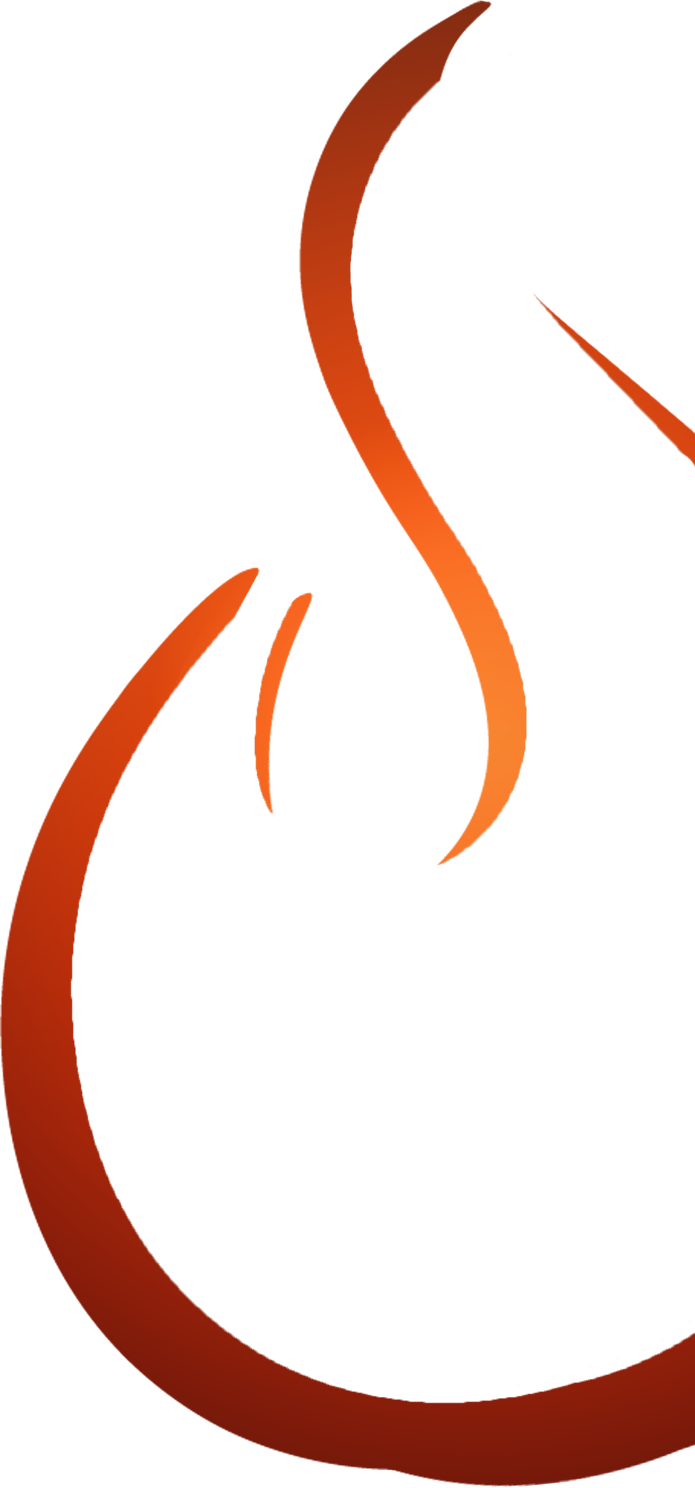
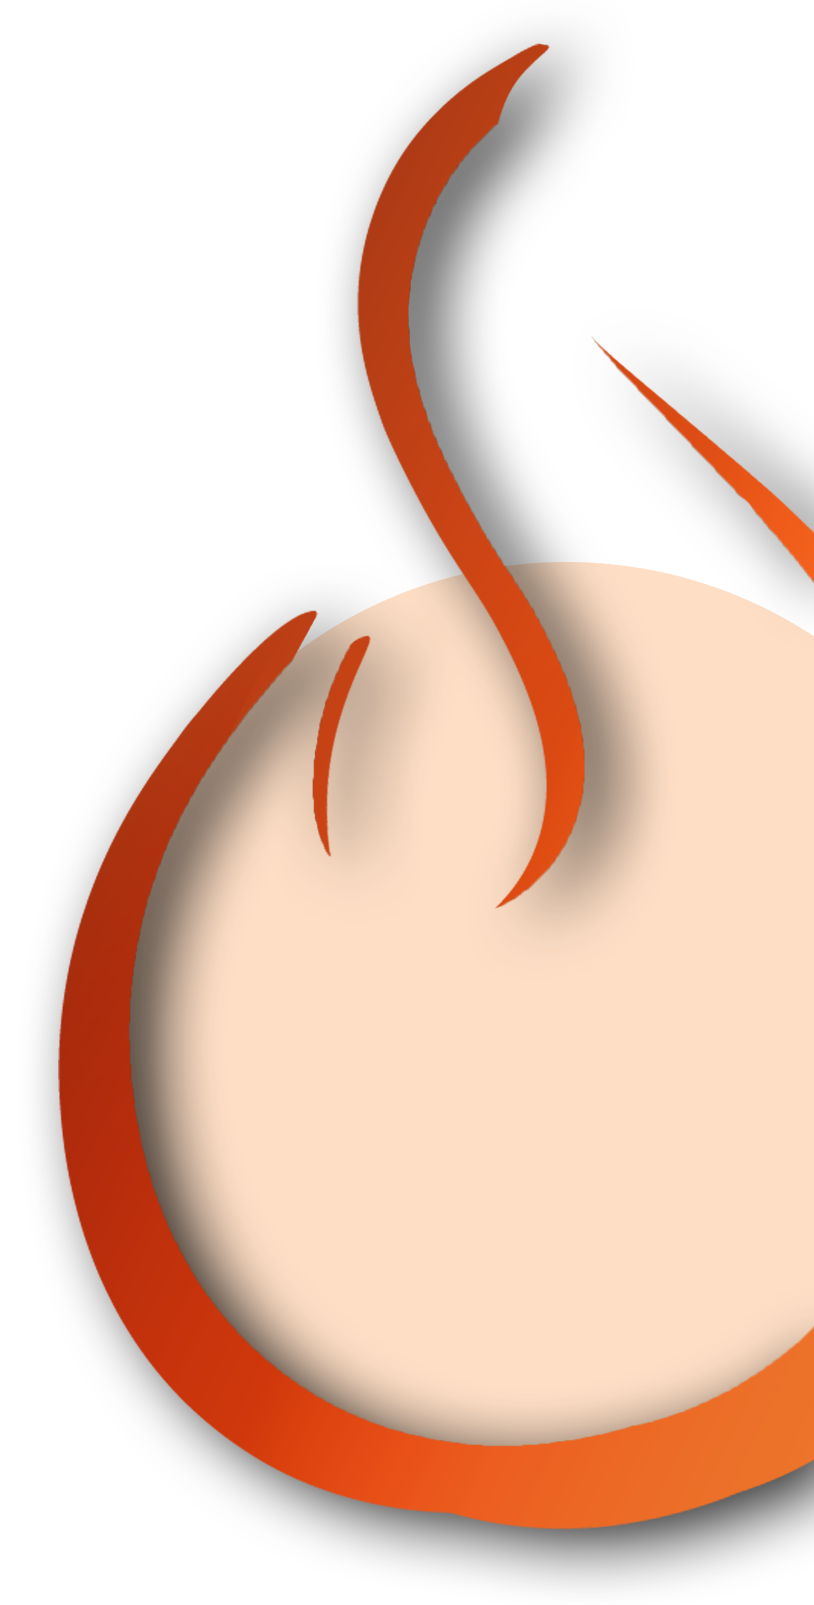
Finished flame png, added new bg color to landing

diff --git a/client/src/index.css b/client/src/index.css
@@ -54,34 +54,21 @@ ul {
   height: 350px;
 }
 
-.sectLanding {
-  height: 92vh;
-  width: 100vw;
-  position: relative;
-  border-bottom: 5px solid var(--vermillion);
+.sectBlog {
+  height: 80vh;
 }
 
 .flameBg {
   position: absolute;
-  right: 0;
-  bottom: 0;
+  right: 0px;
+  bottom: -150px;
   width: 250px;
 }
 
-.blogCOA {
+.sectAbout {
   height: 80vh;
-  /* background-image: url("./firebg.png");
-  background-size: cover;
-  background-repeat: no-repeat; */
-  filter: drop-shadow(1px 3px 5px rgba(0, 0, 0, 0.5));
-}
-
-.aboutCOA {
-  width: 100vw;
-  height: 300px;
-  background-color: var(--teal);
-  margin: 10px 0;
-  filter: drop-shadow(1px 3px 5px rgba(0, 0, 0, 0.5));
+  background-color: var(--ember);
+  border-top: solid 5px var(--sandstone);
 }
 
 @media screen and (min-width: 768px) {

diff --git a/client/src/pages/Landing.js b/client/src/pages/Landing.js
@@ -5,15 +5,9 @@ import flameBg from "../flameOutline.png";
 function Landing() {
   return (
     <main>
-      <section className="sectLanding">
-        <img src={flameBg} className="flameBg" />
-      </section>
-      <section className="sectBlog">
-        <div className="blogCOA"></div>
-      </section>
-      <section className="sectAbout">
-        <div className="aboutCOA"></div>
-      </section>
+      <section className="sectBlog"></section>
+      <img src={flameBg} className="flameBg" />
+      <section className="sectAbout"></section>
       <Contact></Contact>
     </main>
   );

diff --git a/client/src/components/Header/index.js b/client/src/components/Header/index.js
@@ -22,7 +22,7 @@ export default function Header() {
   const { handleTheme } = useContext(ThemeContext);
 
   return (
-    <header className="sticky">
+    <header className={`sticky ${theme === "light" ? "light" : "dark"}`}>
       <div className="row justify-content-between align-items-end">
         <a href="/" className="col-4">
           <h1>Kindling</h1>

diff --git a/client/src/components/Contact/index.js b/client/src/components/Contact/index.js
@@ -3,7 +3,7 @@ import "./Contact.css";
 
 function Contact() {
   return (
-    <footer className="footerBg">
+    <footer id="contact" className="footerBg">
       <div className="footerContent row">
         <p className="col-12 col-lg-6 mb-2 contactHeader">Stay Connected!</p>
 

diff --git a/client/src/components/Header/Header.css b/client/src/components/Header/Header.css
@@ -18,7 +18,6 @@ h1 {
 }
 
 .sticky {
-  background-color: var(--dusty);
   position: sticky;
   top: 0;
   z-index: 9;
